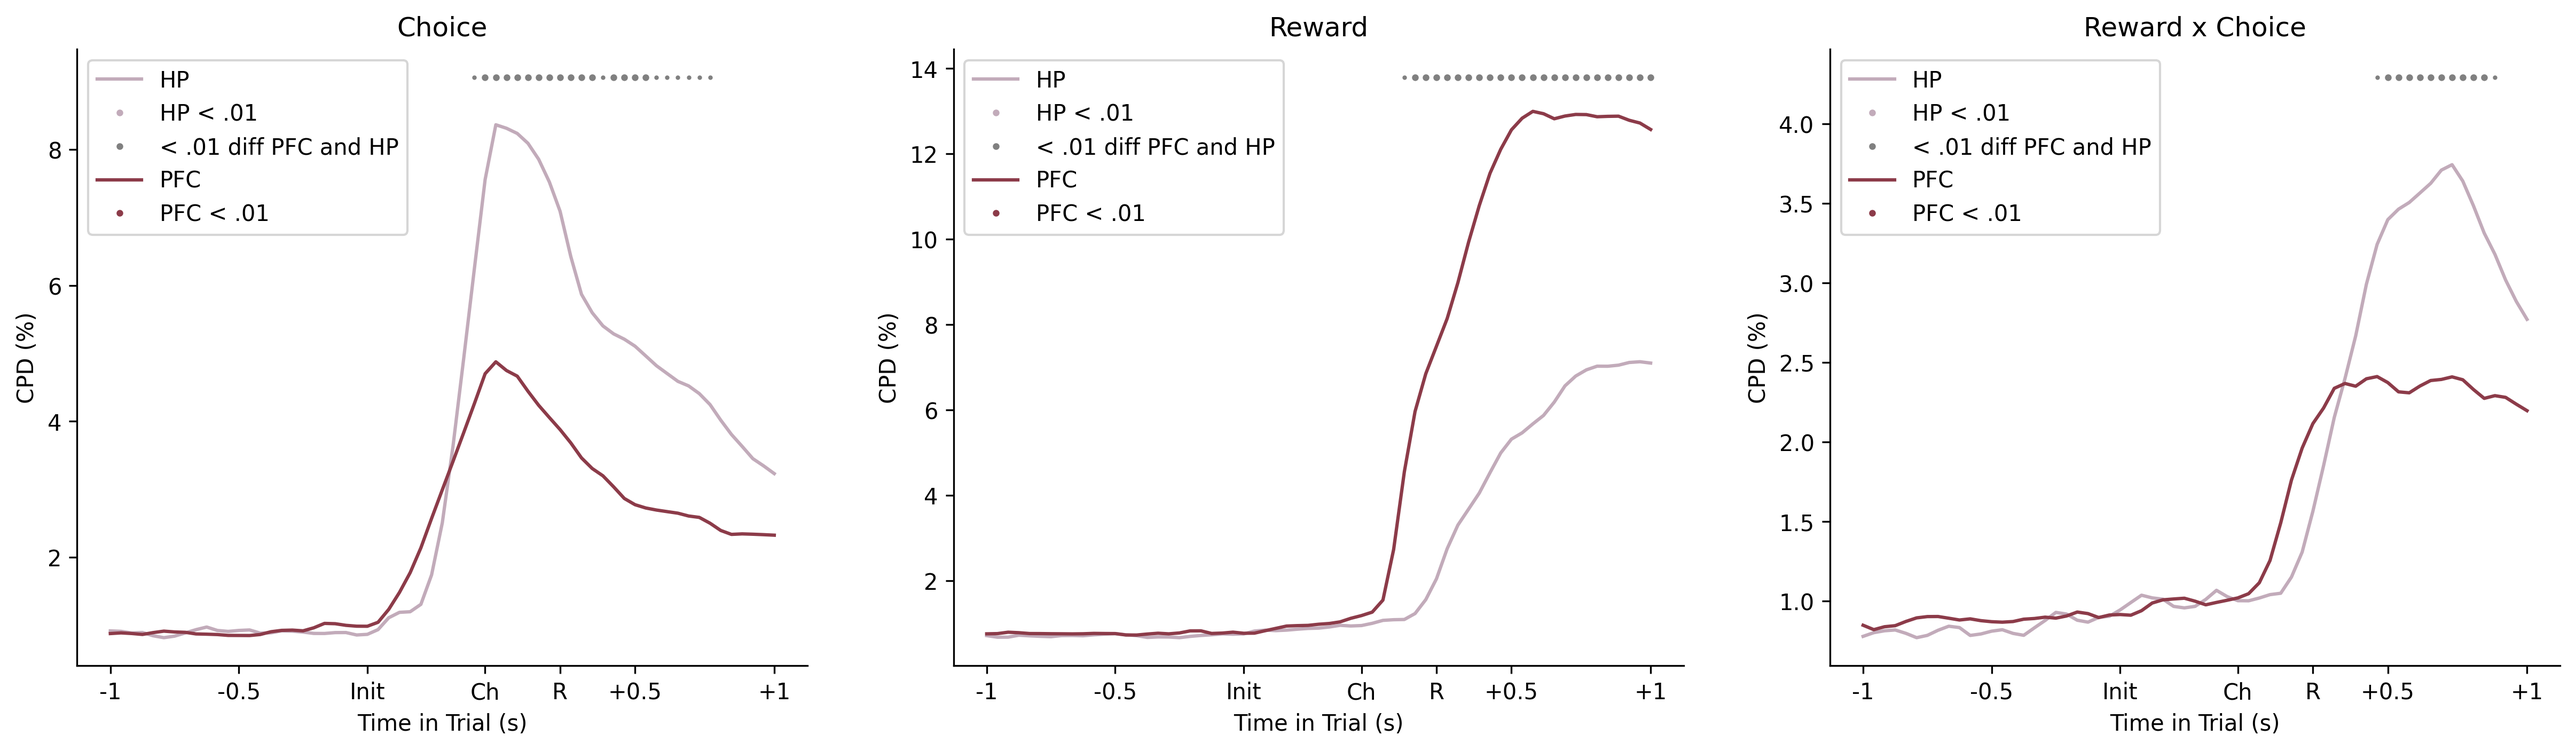
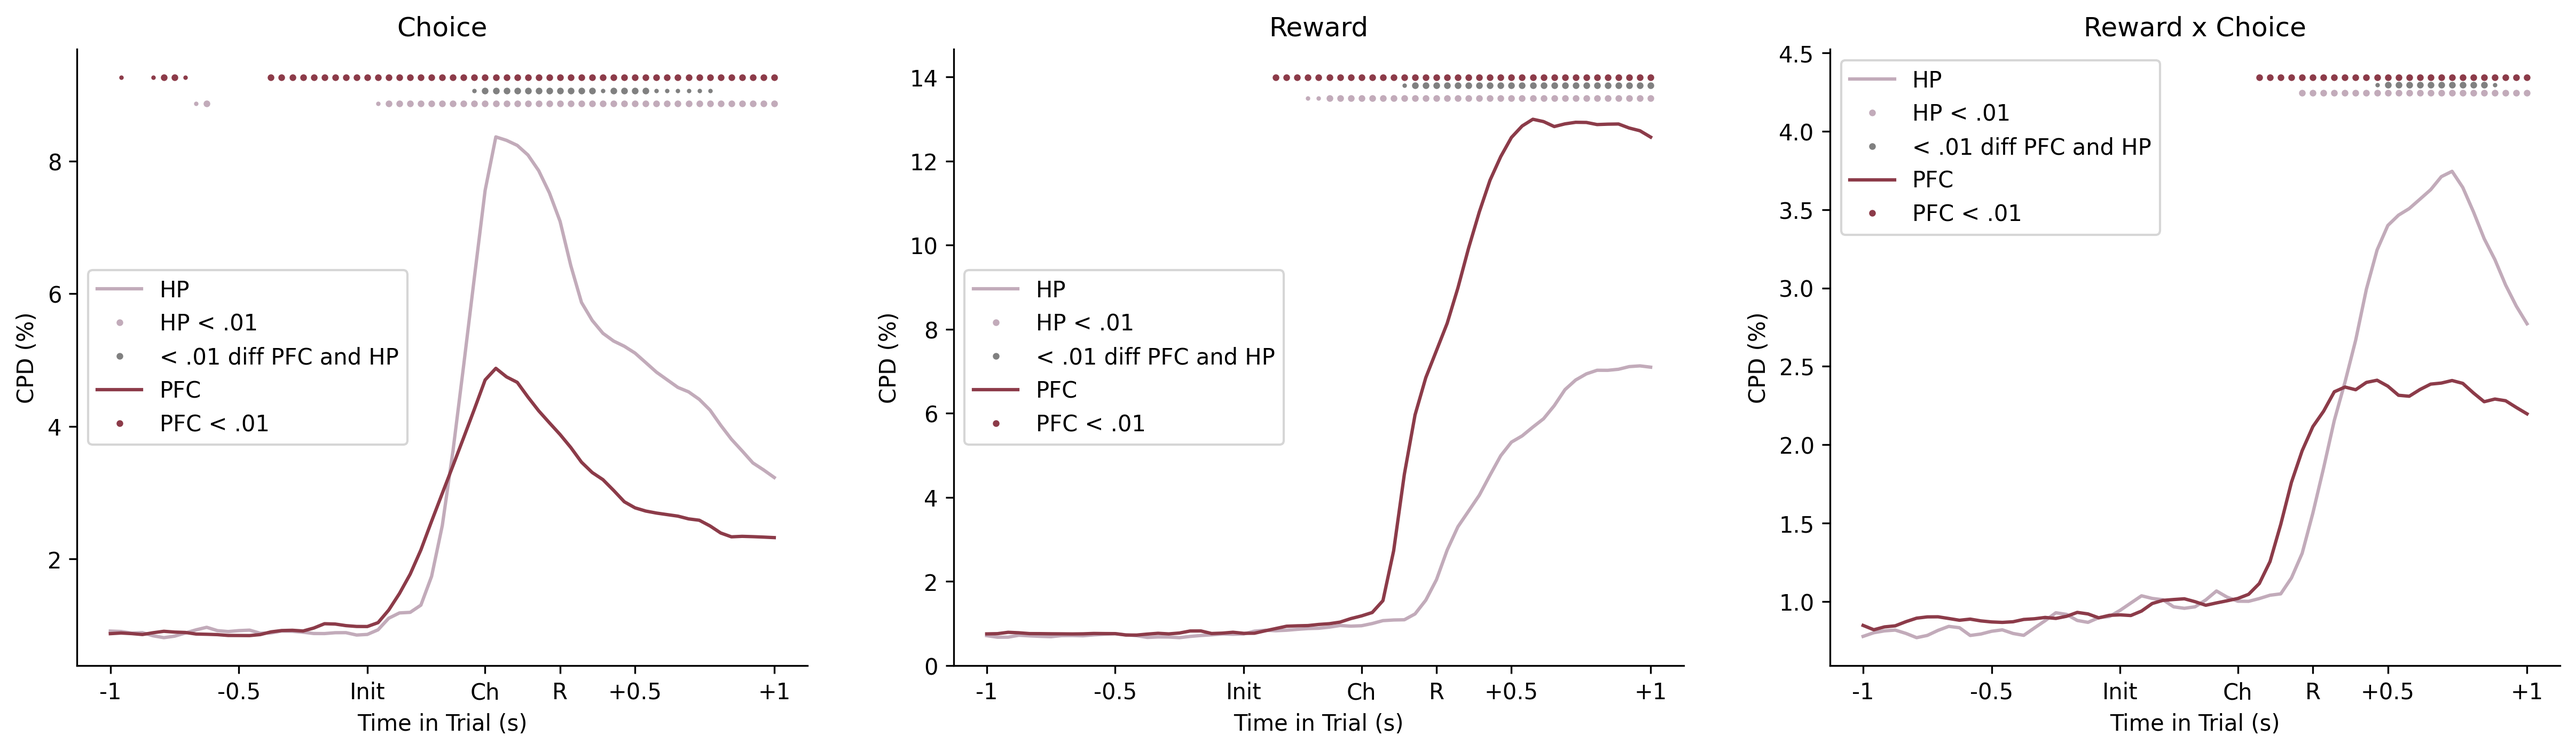
Regenerate Fig 4b with the corrected null (bug 28); CORRECTIONS: changed results for Fig 4b, 6b, Ext 5a, 7, 8

diff --git a/CORRECTIONS.md b/CORRECTIONS.md
@@ -83,6 +83,18 @@ regenerated on the full data set (5,000 session permutations, random seed 0; all
   (printed 11.12 and 0.10, P = 0.474). Extended Data Fig 2f: t(5) = 1.49, P = 0.197 (printed 1.39, P = 0.220).
   A/B pokes only: reversal F(3,18) = 4.92, P = 0.011.
 
+- Fig 6b and the Extended Data Fig 7 policy GLM (bug 29): the null no longer contains near-unshuffled data, so more bins pass.
+  Policy at P < 0.01: PFC bins 16-39 (before bug 29, 21-38), CA1 bins 36-40 (37-40); DLC residuals (Ext 7): PFC 28-38,
+  CA1 39-43. Choice, previous choice and policy x choice now also pass in some bins before initiation. The conclusions
+  (policy and policy x choice coded in both regions) hold.
+- Fig 4b and Extended Data Fig 5a, within-region markers (bug 28): within each region the markers start a few bins earlier (Fig 4b at P < 0.01: choice
+  PFC from bin 15, CA1 from bin 26; outcome PFC from bin 27, CA1 from bin 32; outcome x choice PFC from bin 37, CA1 from bin 41;
+  a few isolated bins before initiation also pass), as the null is no longer inflated by unshuffled data. The between-region markers
+  do not change (Fig 4b at P < 0.01: choice bins 35-45 and 47-50, outcome 40-62, outcome x choice 49-58; Ext 5a, animals as the unit: choice bins 36-41, outcome x choice 54-55, outcome none).
+- Extended Data Fig 8 (bug 30): with sessions in which the two layouts are adjacent in either order (CA1 23, 28 and 21
+  sessions for T1-T2, T2-T3 and T1-T3; PFC 30, 34 and 26), CA1 surprise after a layout switch is clearer than before,
+  mostly at initiation, and PFC surprise is weaker. The conclusion (CA1 more surprised by a new layout than PFC) holds.
+
 All other conclusions are unchanged; several statistics change in value.
 
 Forced-choice trials (a quarter of all trials) are included in all neural analyses, as in the original code. In a quick check,
